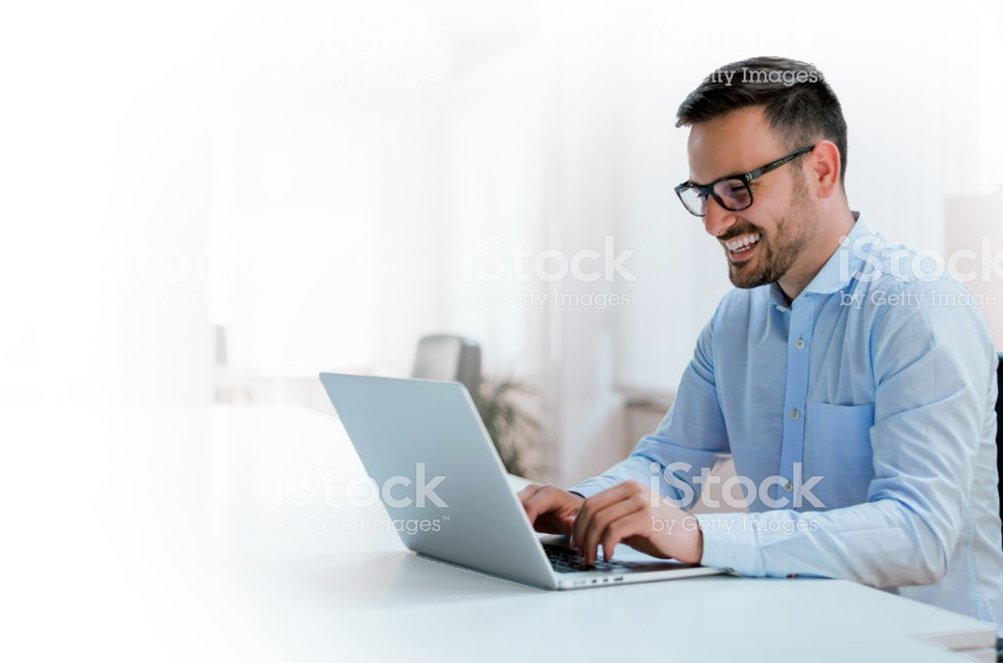
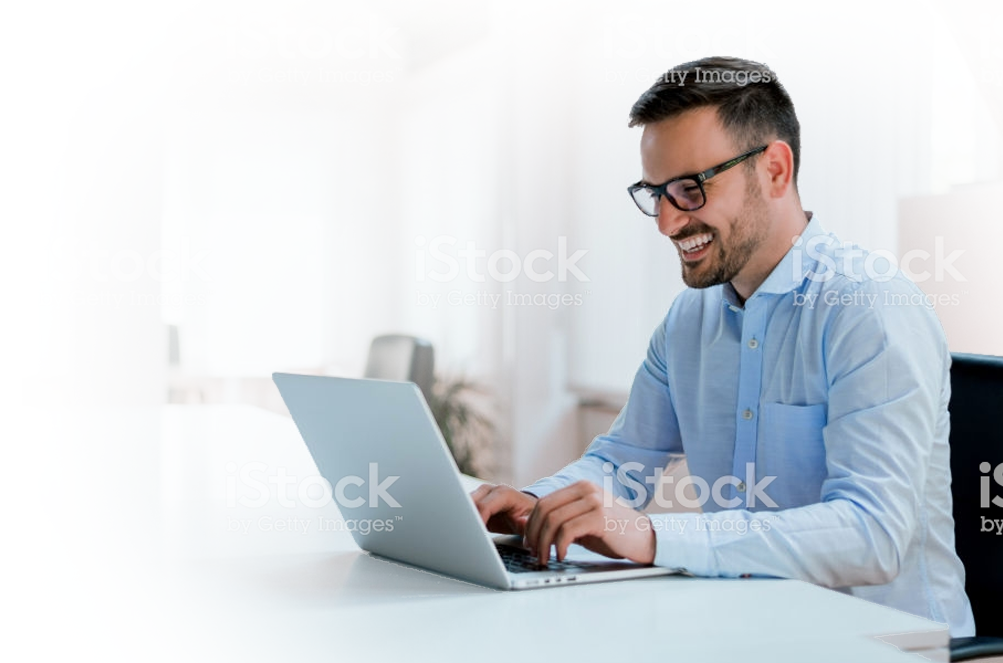
Adjust size of masthead image

Changed region(s): [[0.2782, 0.0603, 1.0, 1.0], [0.2164, 0.4827, 0.2473, 0.543], [0.1545, 0.5128, 0.1854, 0.543]]

diff --git a/index.html b/index.html
@@ -57,9 +57,6 @@
                         <br>
                         <span class="masthead-title-tagline-l">Virtual Office</span>
                     </h3>
-                    <h4 class="masthead-subtitle">
-                        <img src="assets/videosign-logo-home.png" style="width:300px;">
-                    </h4>
                     <p class="masthead-text">
                         Videosign’s unique combination of online video meetings,
                         secure digital signing, innovative and friction free
@@ -87,9 +84,6 @@
                         <br>
                         <span class="masthead-title-tagline-l">Virtual Office</span>
                     </h3>
-                    <h4 class="masthead-subtitle">
-                        <img src="assets/videosign-logo-home.png" style="width:50vw;">
-                    </h4>
                     <p style="margin-bottom: 5vh;">
                         Videosign’s unique combination of online video meetings,
                         secure digital signing, innovative and friction free
